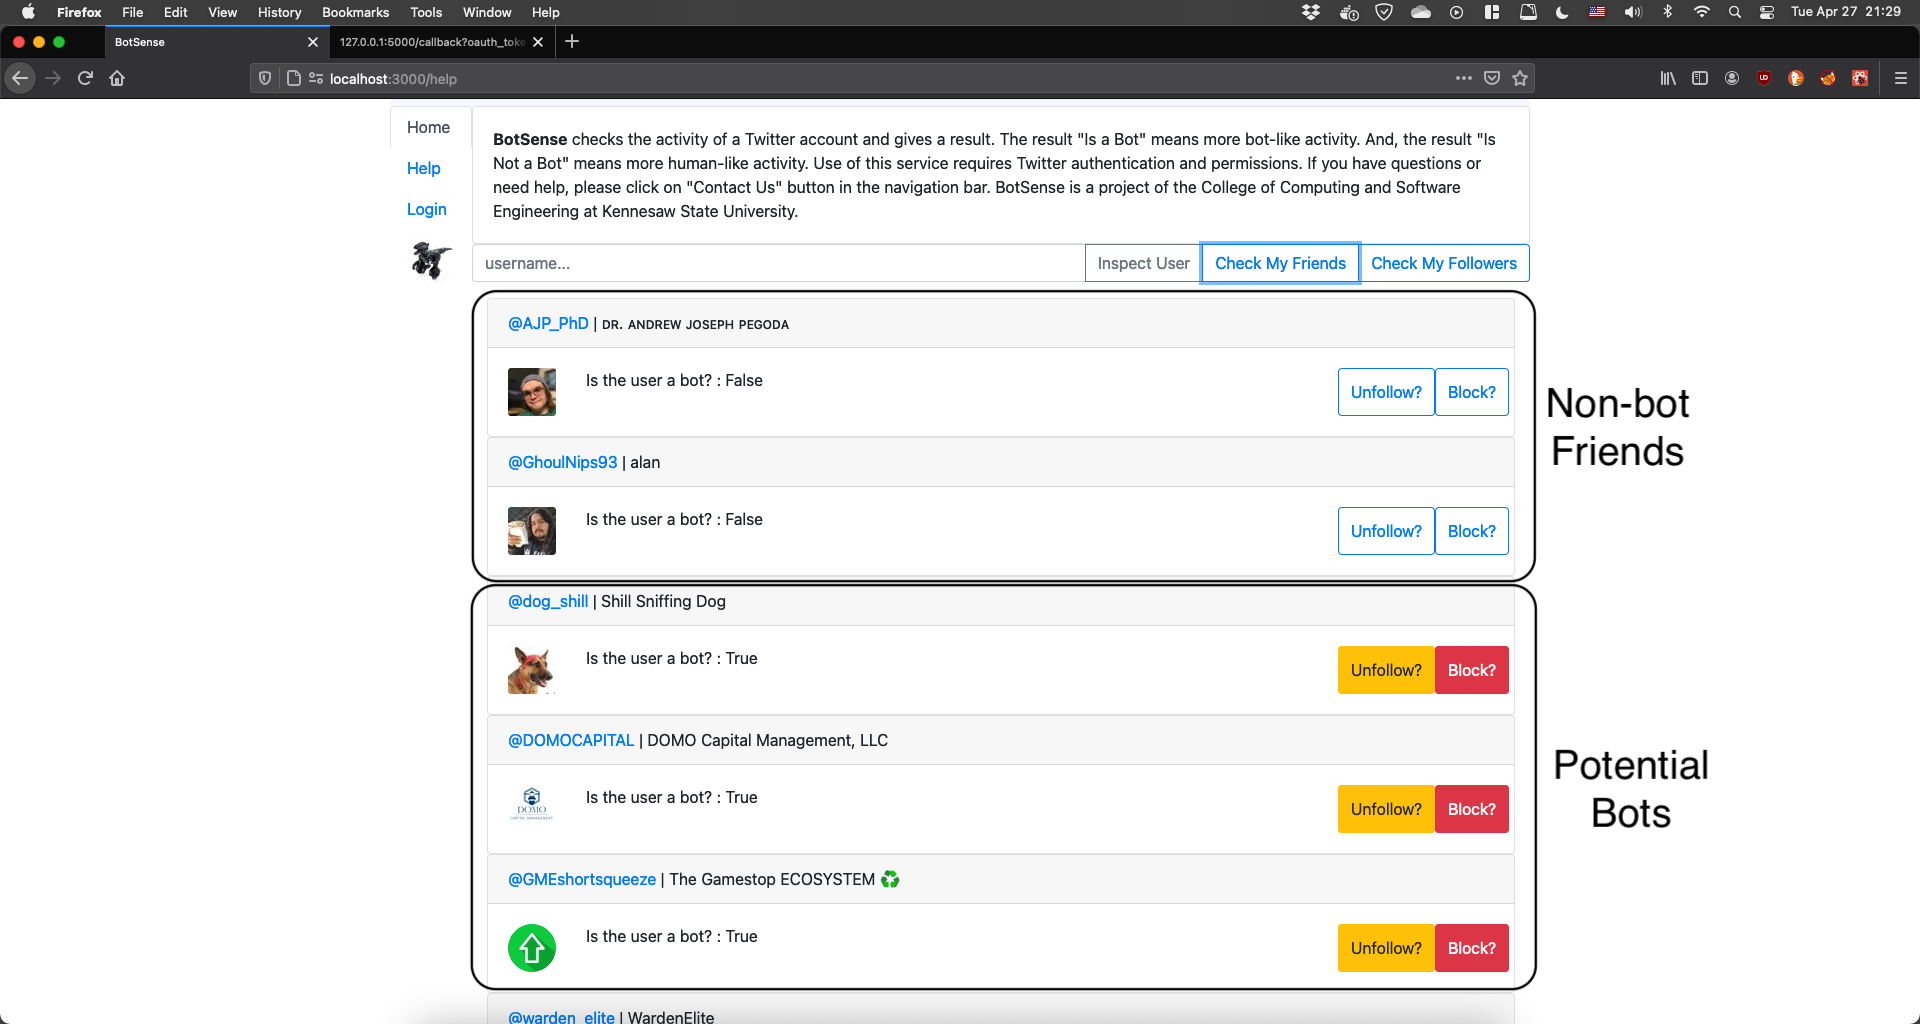
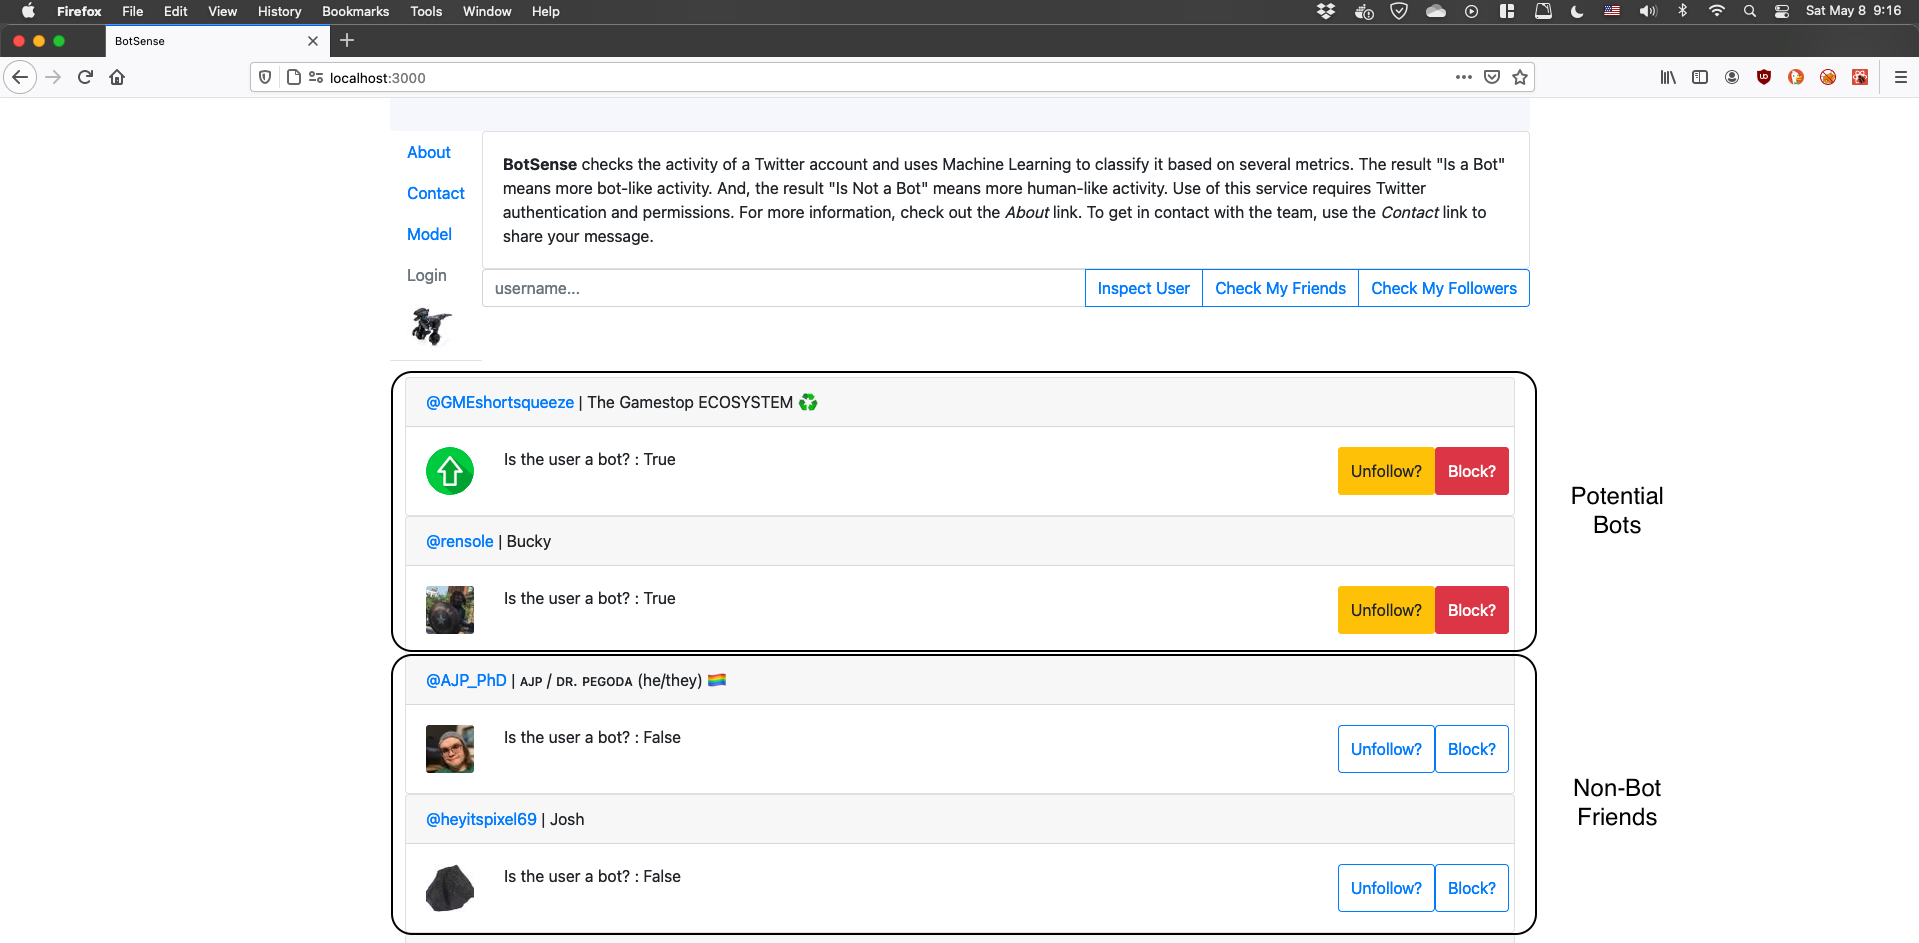
Update user manual

diff --git a/user-manual/README.md b/user-manual/README.md
@@ -6,6 +6,7 @@
 2. Authorizing Access
 3. Inspecting Users
 4. User Actions
+5. Other Pages
 
 ## 1. User Interface Overview
 
@@ -31,13 +32,10 @@ To authorize access to your profile follow the steps below:
 
    ![twitter_auth](twitter_auth.png)
 
-3. Upon successful authorization, you will receive a message from the server (this is temporarily indicating succesful completion of the step). Feel free to close the new tab at this point and return to the application.
-
-   ![twitter_auth2](twitter_auth2.png)
-
-4. Going back at the application tab, note that the account profile picture is retrieved on the bottom side of the Navigation Bar. This indicates BotSense can succesfully retrieve information from your account and make all the necessary calls.
+3. Upon successful authorization, you will be redirected back to the main application. Note that the account profile picture is retrieved on the bottom side of the Navigation Bar and the Login button is disabled. Additionally there notification message has changed. This indicates BotSense can succesfully retrieve information from your account and make all the necessary calls.
 
    ![landing_page_logged_in](landing_page_logged_in.png)
+
 
 ## 3. Inspecting Users
 
@@ -59,7 +57,7 @@ These are accessible from the Actions Bar and produce the following:
 
 1. Ensure you are logged in and have authorized access to BotSense
 2. From the Actions Bar, click `Check My Friends`
-3. Notice the results in the Results Area
+3. Notice the results in the Results Area. Potential bots will be shown at the top of the list.
 
 ![check_friends](check_friends.png)
 
@@ -105,4 +103,12 @@ As seen above, for each result there are two main actions with respect to the us
 3. Optionally, you can click on the user's link (@user) and check from Twitter itself that the user is now marked as blocked. You can undo this action from the same page, to unblock the user.
 
    ![block](block.png)
+
+## 5. Other Pages
+
+For more information there are three additional pages located on the Sidebar:
+
+* About -- a short description of the project and its functionality
+* Contact -- a submission form that can be used to contact the team
+* Model -- an overview of the trained ML model used to power BotSense
 
